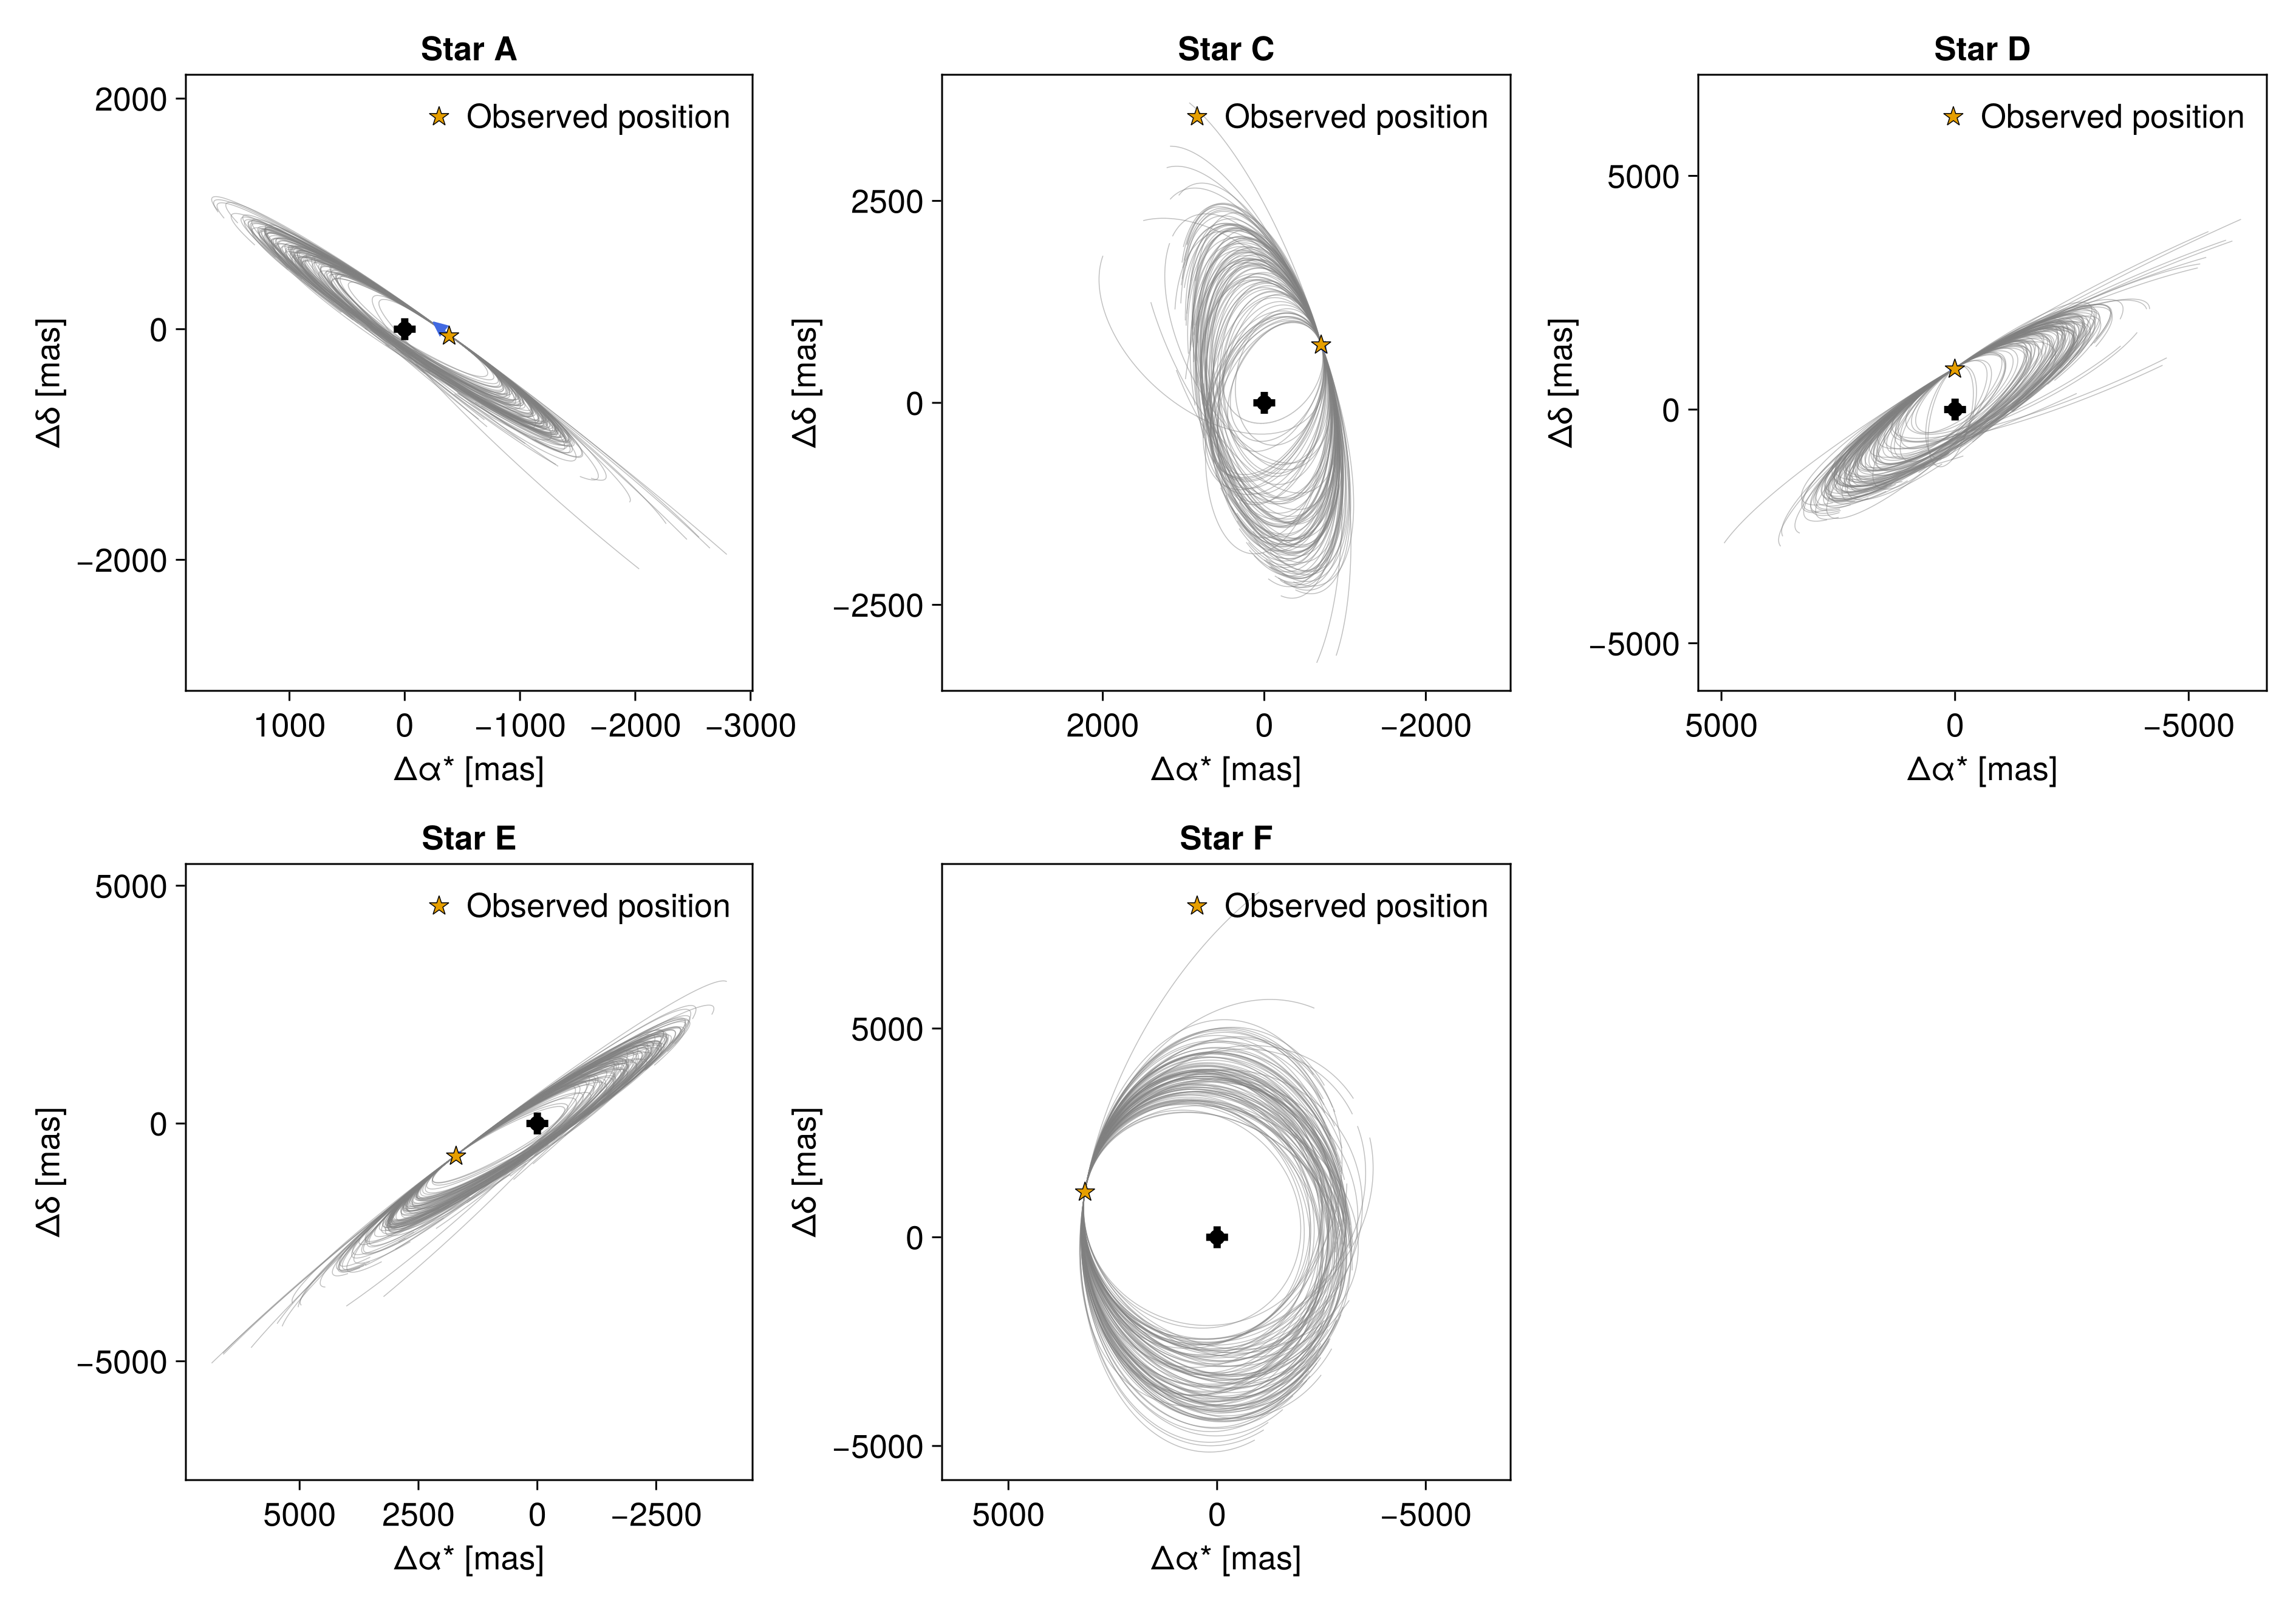
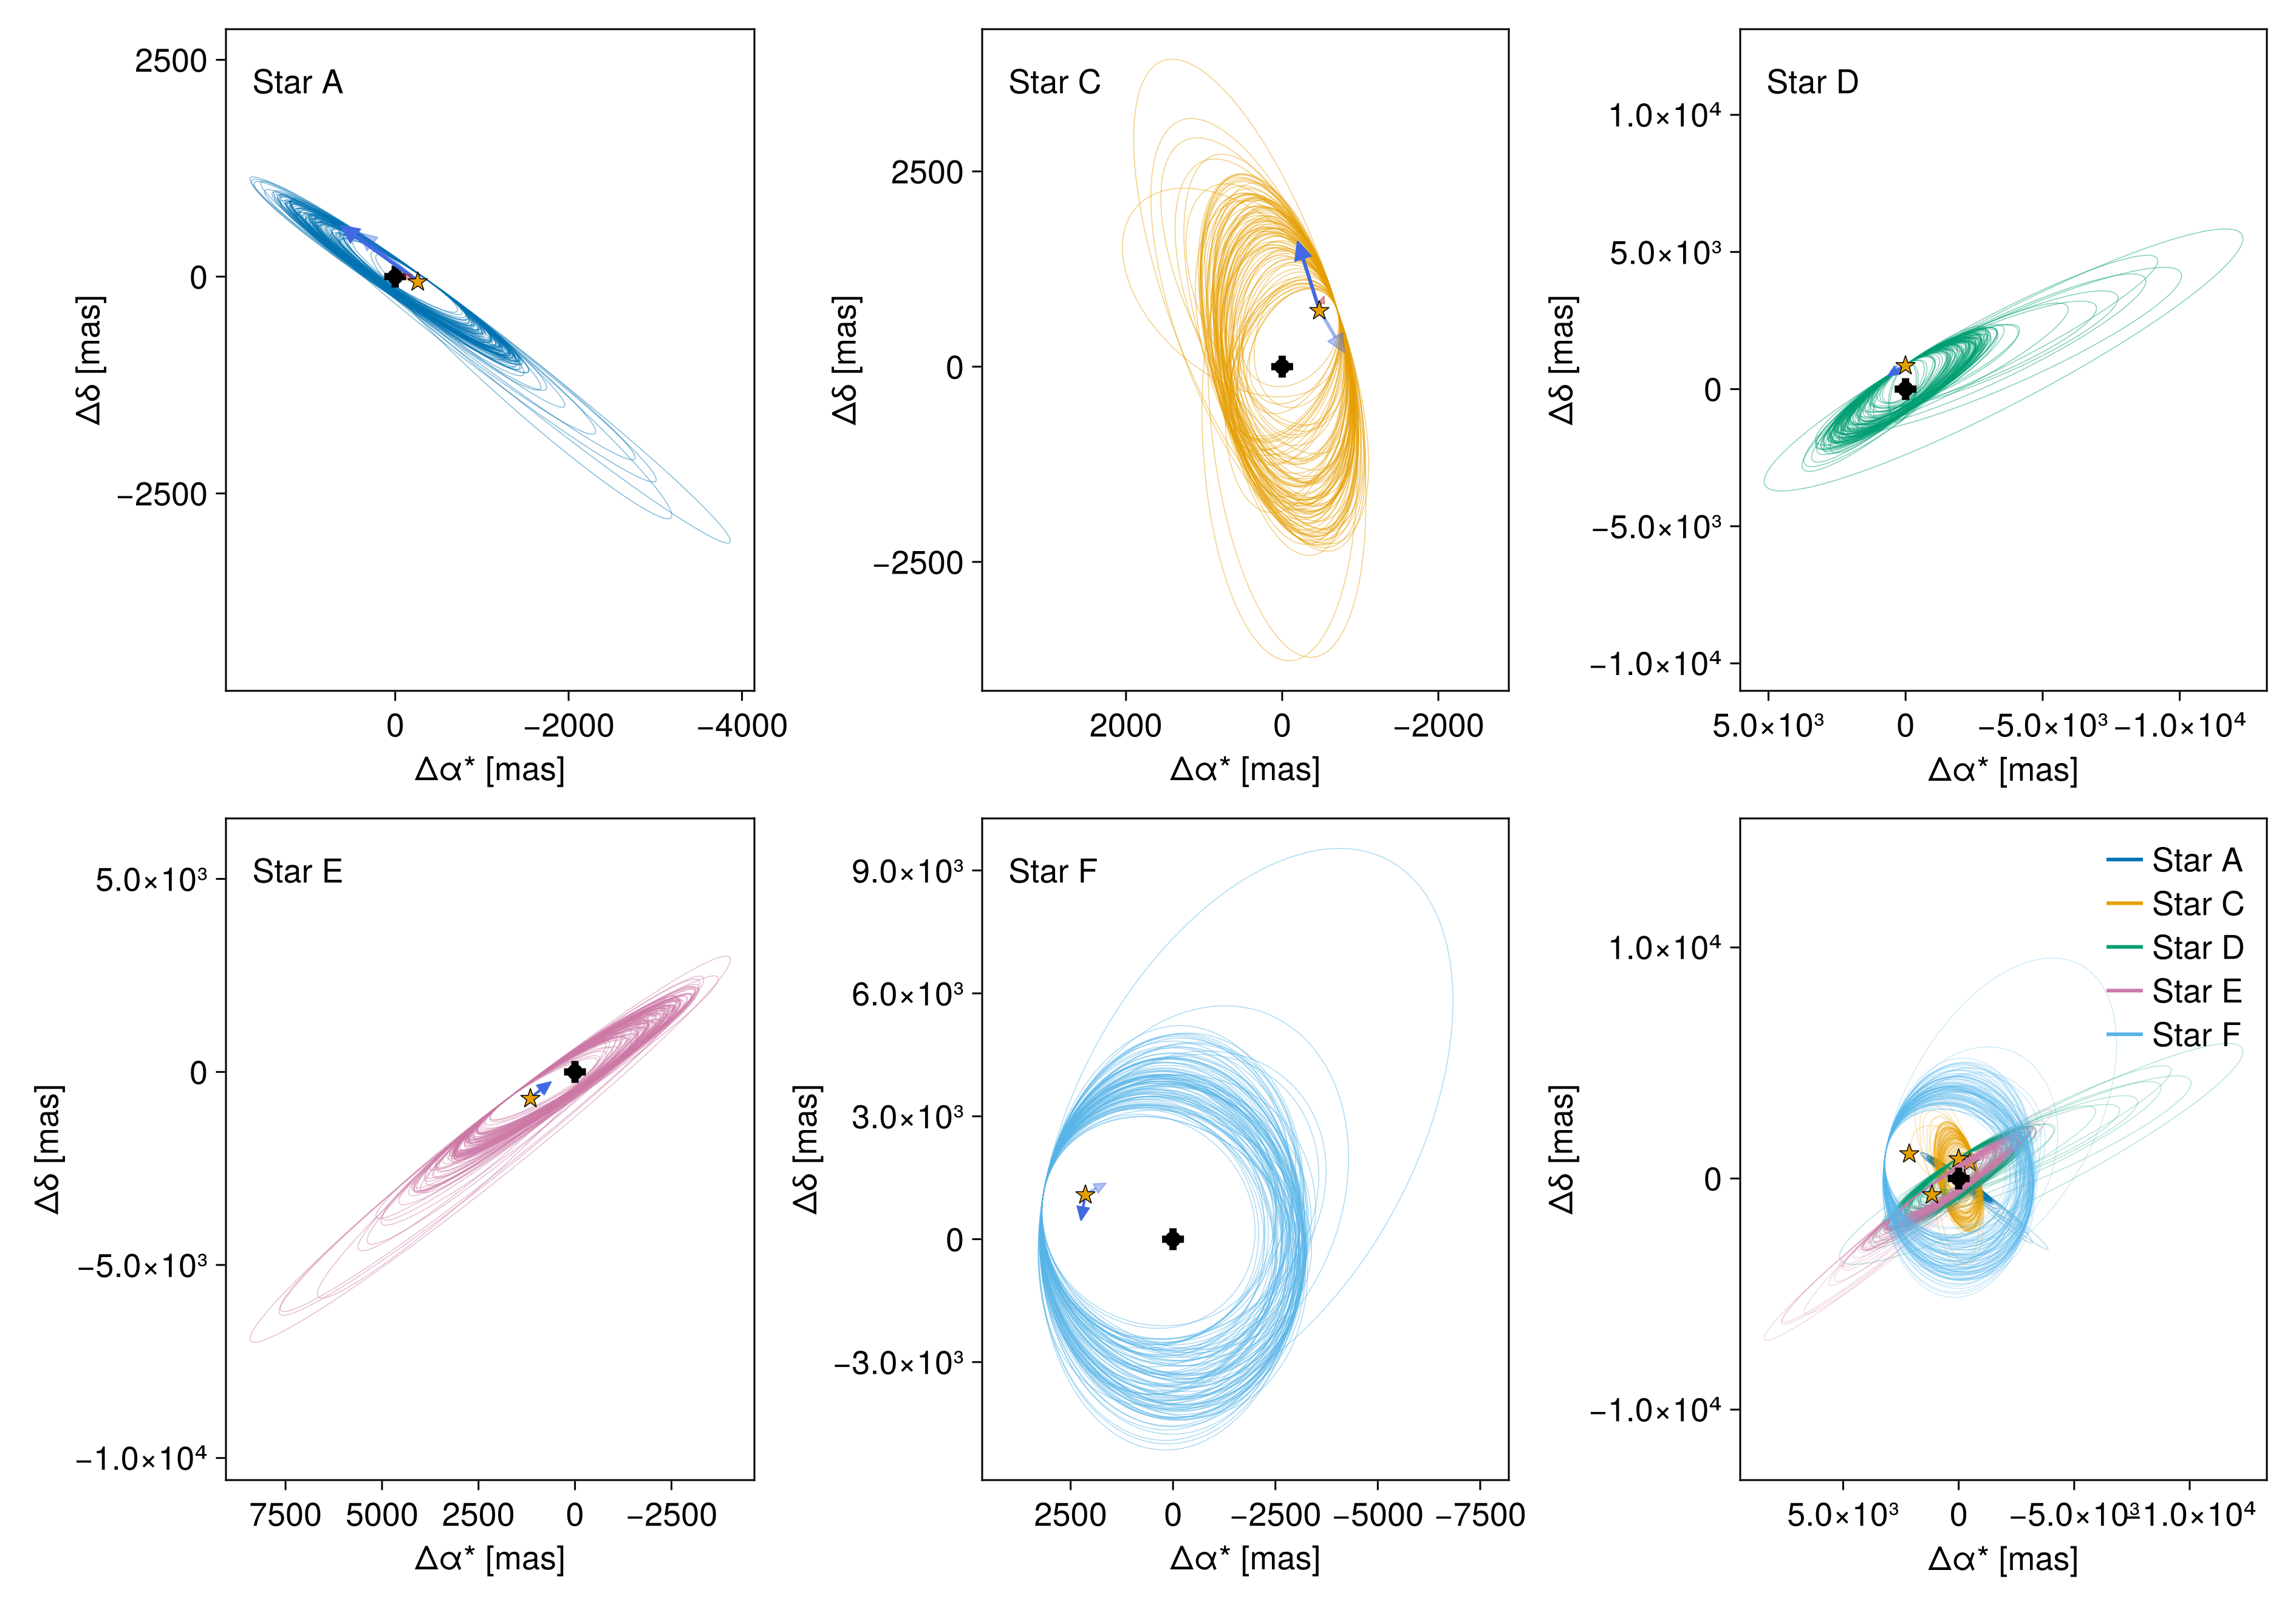
Add new results

diff --git a/results/run_outputs/starsACDEF_192c_15r_9688743_summary.md b/results/run_outputs/starsACDEF_192c_15r_9688743_summary.md
@@ -1,0 +1,136 @@
+# Run Summary
+
+- **Date:** 2026-04-02T19:34:09.660
+- **Slurm Job ID:** 9688743
+- **Stars:** A, C, D, E, F
+- **Reference epoch:** 55197.0 MJD (2010.0 yr)
+- **Config file:** /lustre09/project/6039459/vhenault/OCen_IMBH/Ocen_IMBH_analysis/configs/wide_uniform_offset_centre.toml
+
+## Sampling Parameters
+
+| Parameter | Value |
+|---|---|
+| n_rounds | 15 |
+| n_chains | 192 |
+| n_chains_variational | 192 |
+| checkpoint | false |
+
+## System Priors
+
+| Parameter | Prior |
+|---|---|
+| offsetx | Uniform(-3000, 3000) |
+| M | Uniform(100, 120000) |
+| offsety | Uniform(-3000, 3000) |
+| plx | truncated(Normal(0.19, 0.004), lower=0) |
+
+## Companion Priors (defaults)
+
+| Parameter | Prior |
+|---|---|
+| theta | UniformCircular() |
+| e | Uniform(0.0, 0.99) |
+| P | Uniform(10, 2_000_000) |
+| omega | UniformCircular() |
+| Omega | UniformCircular() |
+| i | Sine() |
+
+## Full Configuration
+
+```toml
+# ============================================================
+# Omega Centauri IMBH Orbit Fitting — Run Configuration
+# ============================================================
+#
+# This file controls all tuneable parameters for a single run.
+# Copy it, edit the copy, then launch:
+#
+#   julia submit_job.jl configs/my_run.toml        # HPC (generates + submits Slurm job)
+#   julia octo_orbit_direct_likelihoods.jl configs/my_run.toml   # local
+#
+# Star observational data (positions, PMs, accelerations) lives in
+# octo_utils.jl and is NOT duplicated here.
+# ============================================================
+
+# --- Run metadata (written into the run summary) ---
+[meta]
+system_name = "Omega_Cen"
+description = "5-star direct likelihood fit, wide uniform prior on IMBH centre offset (±3 arcsec)"
+
+# --- Star selection ---
+# Available: A, B, C, D, E, F, G  (B and G have lower-quality data)
+[stars]
+selected = ["A", "C", "D", "E", "F"]
+
+# --- Reference epoch ---
+# The single epoch at which position, PM, and acceleration are evaluated.
+# Specified in decimal years; converted internally to MJD via Octofitter.years2mjd().
+[epoch]
+year = 2010.0
+
+# === Priors =============================================================
+# Prior strings are parsed at runtime into Distributions.jl objects.
+# Supported forms:
+#   "Uniform(lo, hi)"
+#   "Normal(mu, sigma)"
+#   "truncated(Normal(mu, sigma), lower=L)"
+#   "truncated(Normal(mu, sigma), lower=L, upper=U)"
+#   "Sine()"
+#   "UniformCircular()"
+# Underscores in numbers (e.g. 2_000_000) are allowed inside strings.
+# ========================================================================
+
+# System-level priors (shared across all companions)
+[priors.system]
+plx     = "truncated(Normal(0.19, 0.004), lower=0)"   # Parallax [mas]
+M       = "Uniform(100, 120000)"                        # IMBH mass [solar masses]
+offsetx = "Uniform(-3000, 3000)"                        # IMBH RA offset from assumed center [mas]; ±3" covers Haberle+2025 MCMC centre (0.77" NE of AvdM10)
+offsety = "Uniform(-3000, 3000)"                        # IMBH Dec offset from assumed center [mas]
+
+# Default companion (per-star) priors — applied to every star unless overridden below
+[priors.companion_defaults]
+P     = "Uniform(10, 2_000_000)"    # Orbital period [yr]
+e     = "Uniform(0.0, 0.99)"        # Eccentricity
+i     = "Sine()"                     # Inclination [rad]
+omega = "UniformCircular()"          # Argument of periastron [rad]
+Omega = "UniformCircular()"          # Longitude of ascending node [rad]
+theta = "UniformCircular()"          # Mean anomaly at reference epoch [rad]
+
+# Per-star prior overrides (optional)
+# Only list parameters that differ from companion_defaults.
+# Uncomment and adjust as needed:
+#
+# [priors.overrides.B]
+# P = "Uniform(1, 2_000_000)"
+#
+# [priors.overrides.G]
+# P = "Uniform(1, 200_000)"
+
+# --- Sampling ---
+[sampling]
+n_rounds             = 15
+n_chains             = 192
+n_chains_variational = 192
+checkpoint           = false
+
+# --- Slurm / HPC ---
+[slurm]
+account       = "def-vhenault"
+job_name      = "octo_imbh"
+nodes         = 1
+cpus_per_task = 192
+mem_per_cpu   = "3G"
+time          = "15:00:00"
+julia_module  = "julia/1.10.10"
+julia_threads = 192
+mail_type     = "ALL"
+mail_user     = "[email redacted]"
+
+# --- Paths ---
+# Relative paths are resolved from the directory containing this config file.
+[paths]
+project    = "../../Octofitter_imbh.jl"     # --project= argument for Julia
+output_dir = "../results/run_outputs"        # chain files, plots, summaries
+log_dir    = "../results/logs"               # Slurm stdout/stderr and tee logs
+
+```